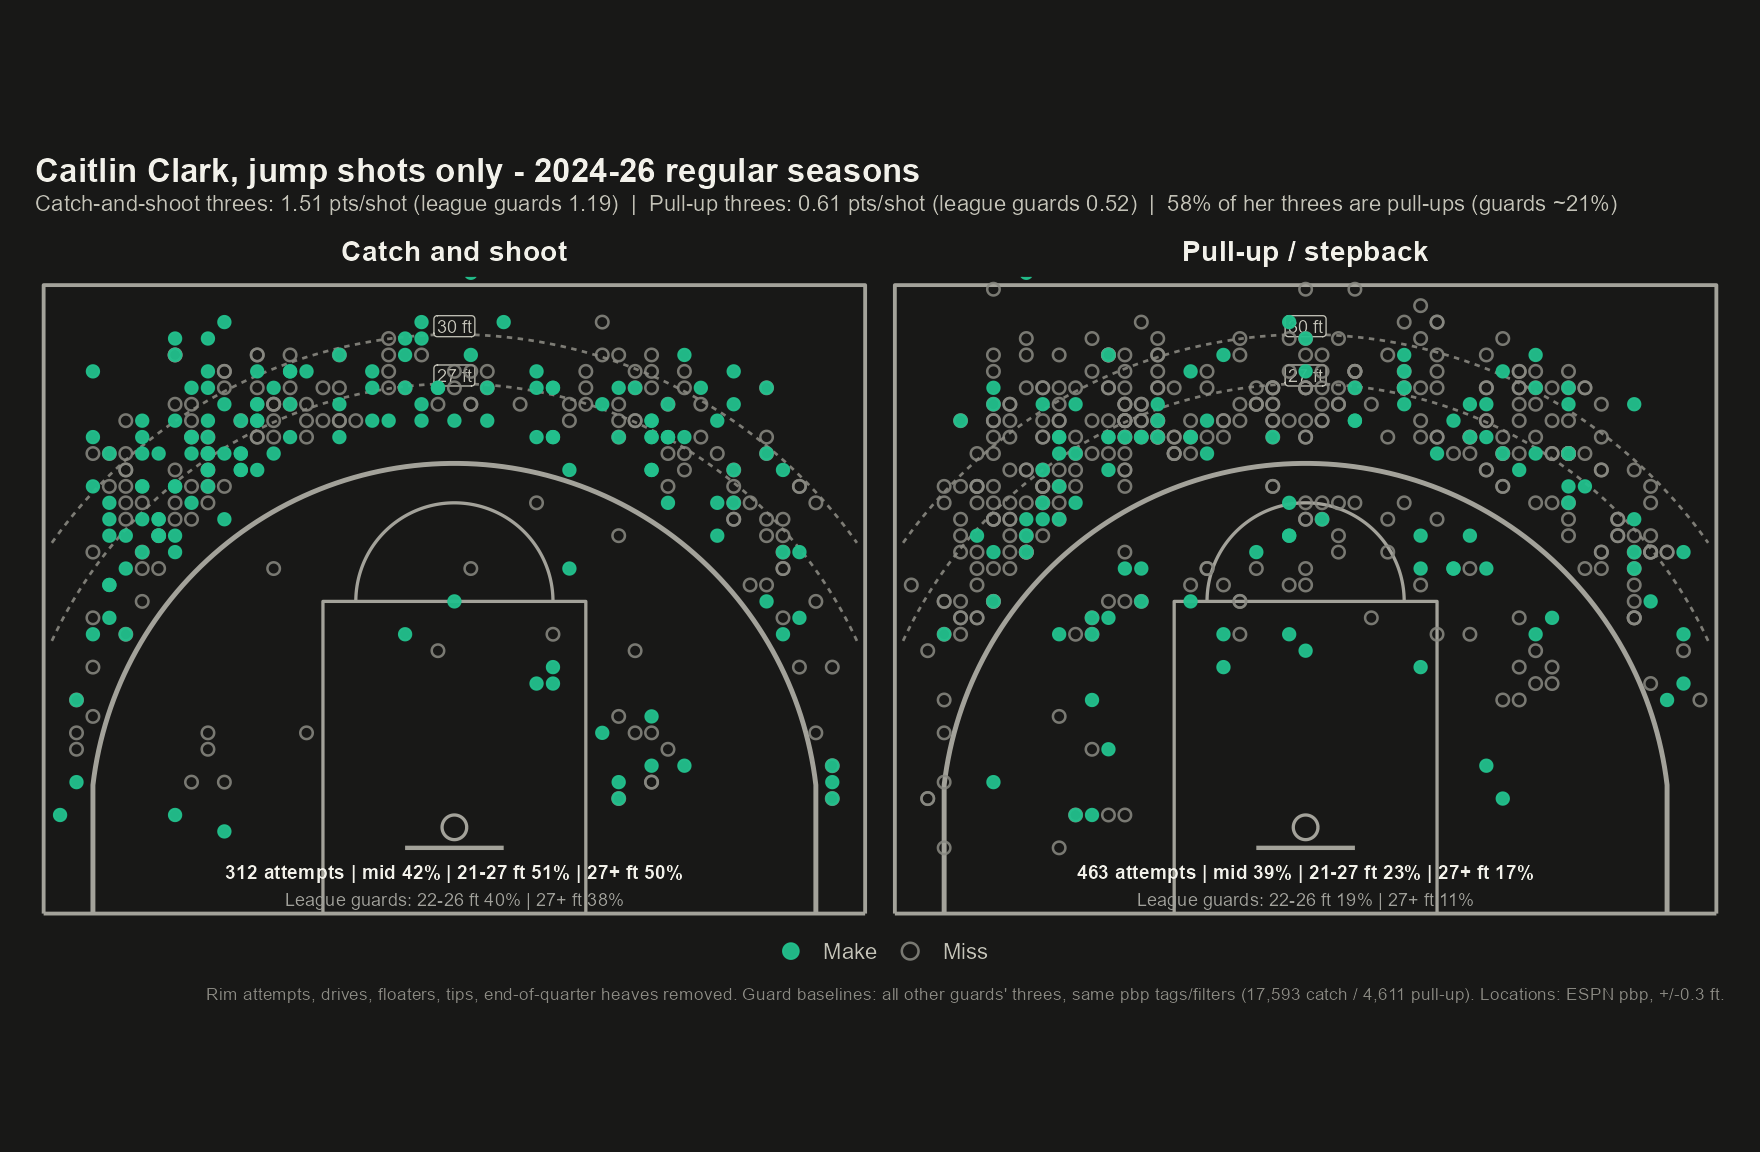
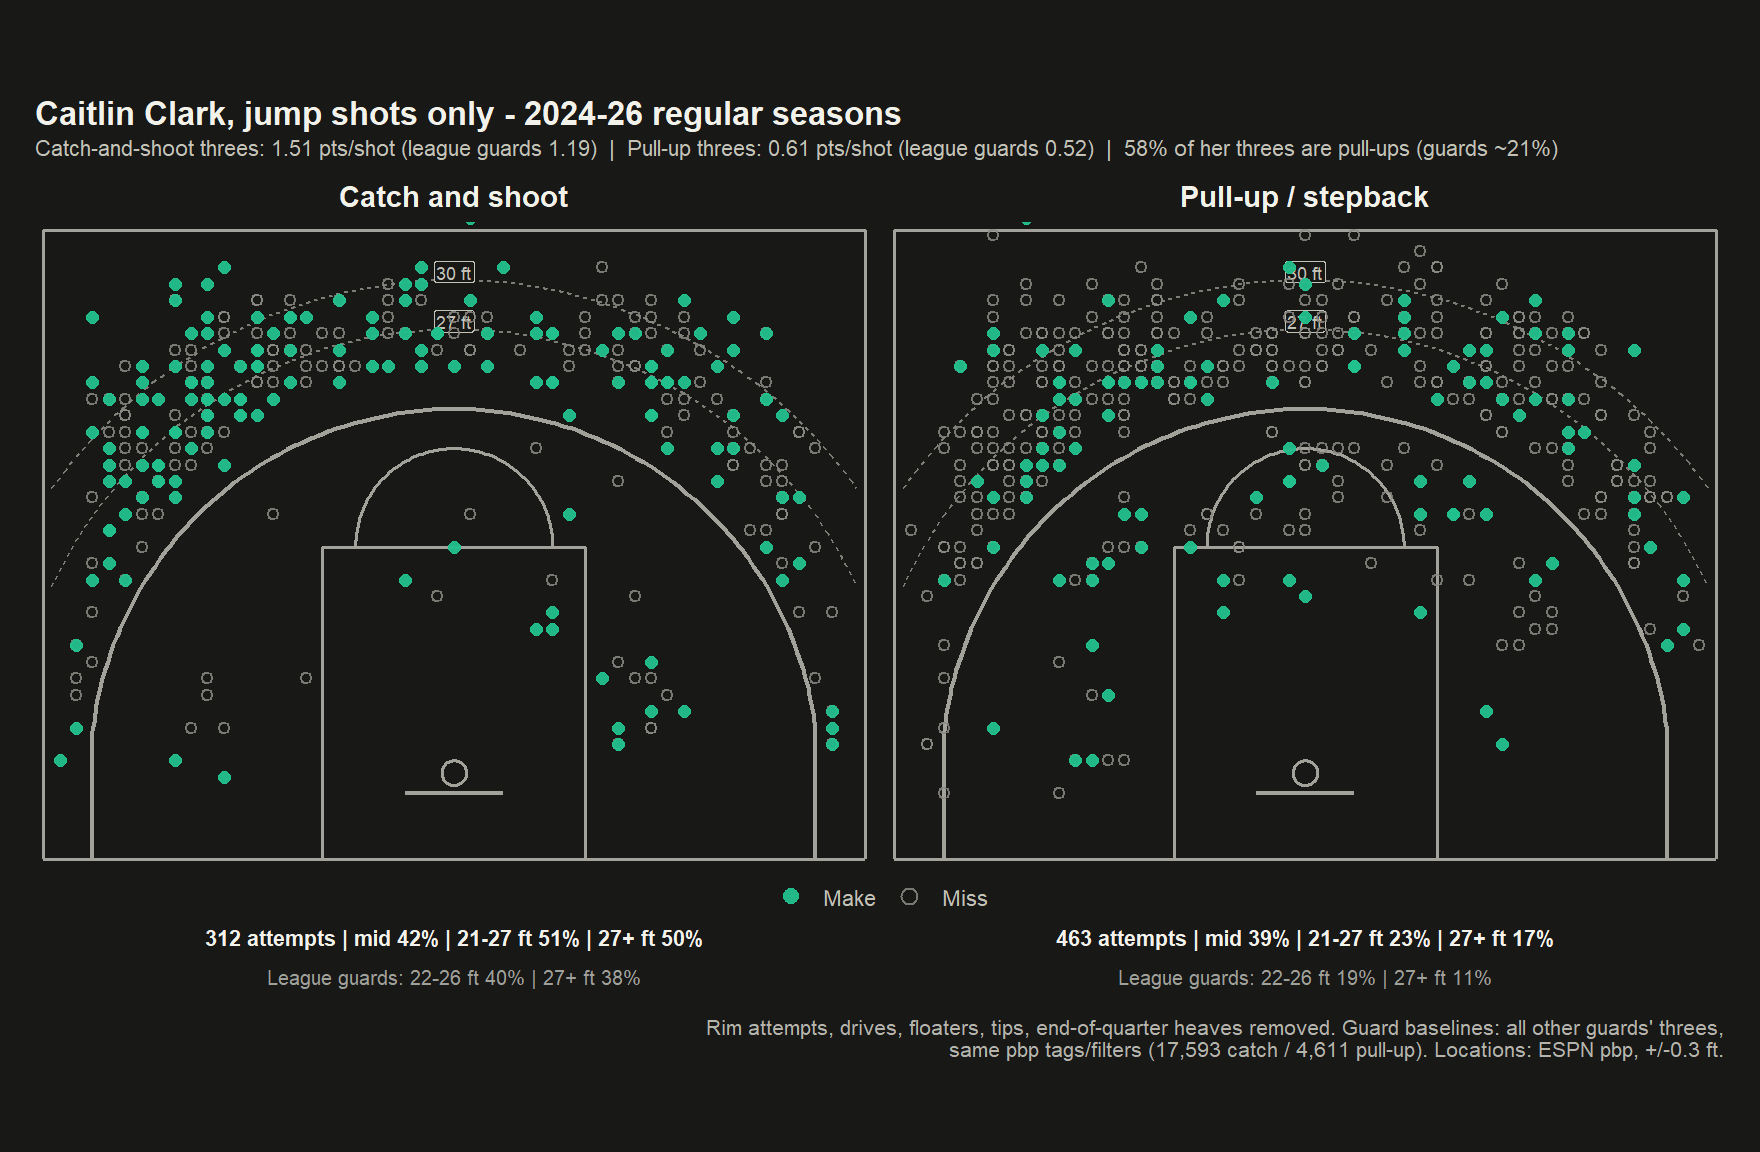
Polish Clark project chart and site copy
Regenerates the shot dotmap: per-panel attempt/league-guard stats now
sit below the legend under their own court instead of overlapping the
hoop, and the methodology caption is bigger and higher-contrast against
the dark background. Also trims casual/jokey copy from the homepage
tagline, footer, and welcome post now that the site has real work on
it for professional viewers.

diff --git a/src/content/projects/welcome-to-project-hub.md b/src/content/projects/welcome-to-project-hub.md
@@ -1,12 +1,10 @@
 ---
 title: "Welcome to Project Hub"
-description: "The site itself is the first project — a home for everything I build."
+description: "An index of my data analysis, writing, and other projects."
 date: 2026-07-31
 tags: ["meta", "web"]
 ---
 
-This site is where I post my various projects — data experiments, writing, freelance work, one-offs, whatever comes out of the workshop.
+This site collects my projects in one place — data analysis, writing, freelance work, and other applied work.
 
-It's built with [Astro](https://astro.build): every project on here is just a markdown file, which means posting something new takes about two minutes and zero infrastructure.
-
-More coming soon.
+It's built with [Astro](https://astro.build) as a static site, with each project as its own page.
